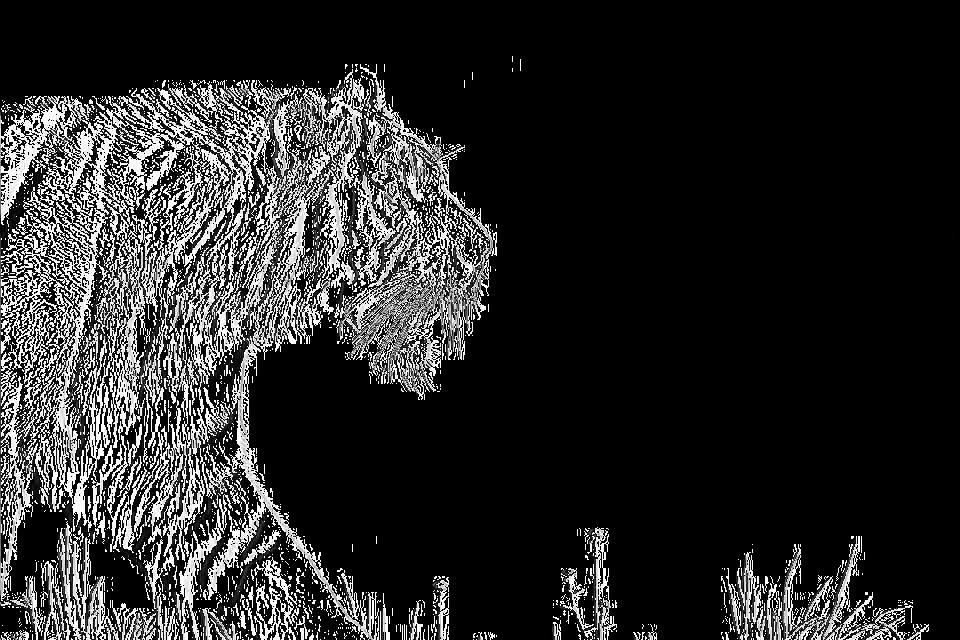
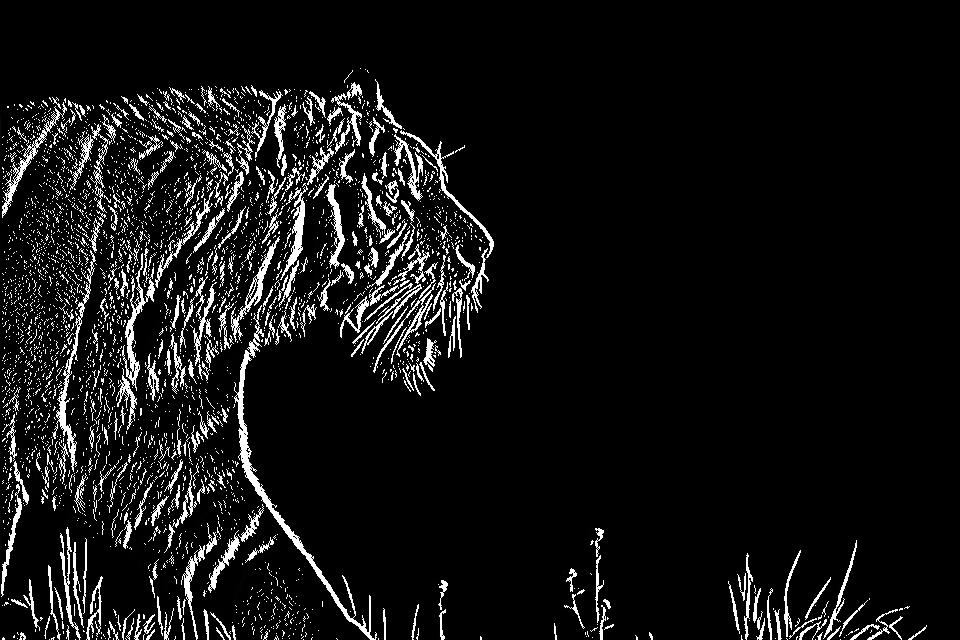
Used blurr to get better edge detection

Changed region(s): [[0.0, 0.0938, 0.5312, 1.0], [0.75, 0.8438, 0.9688, 1.0], [0.5625, 0.8125, 0.6875, 1.0]]

diff --git a/main.py b/main.py
@@ -5,20 +5,49 @@ from filters import get_filter
 import numpy as np
 import os
 
+image_name = "tiger"
+
 def main():
-    image_name = "tiger"
     image_rel_path = ImageHolder(path=f"assets/base/{image_name}.jpeg")
-    save_image(image_rel_path.get_gray_scale(), f"assets/gray/{image_name}_gray.jpeg")
-    filt = get_filter("backward")
-    convolutor = Convolutor(filt, 1)
-    edge = convolutor.convolution(image_rel_path.get_gray_scale())
-    save_image(edge, f"assets/processed/{image_name}_edge.jpeg")
-    print("Edge detection project!")
+    convolutor = Convolutor()
+
+    gray__image = gray_scale_image(image_rel_path)
     
+    blurred_image = blurr_image(gray__image, 1/16, convolutor)
+
+    edged_image = detect_edges(blurred_image, "backward", convolutor)
+    
+    print("Image processing complete.")
+
 def save_image(image, path):
     path = os.path.join(os.path.dirname(__file__), path)
     save_image = Image.fromarray(image)
     save_image.save(path)
+    
+def blurr_image(image, gamma, convolutor=None):
+    filter = get_filter("gaussian_3x3")
+    blurred_image = convolute_image(image, filter, gamma, convolutor)
+    save_image(blurred_image, f"assets/processed/{image_name}_blurred.jpeg")
+    return blurred_image
+
+def gray_scale_image(image_holder):
+    gray_image = image_holder.to_gray_scale()
+    save_image(gray_image, f"assets/gray/{image_name}_gray.jpeg")
+    return gray_image
+
+def detect_edges(image, filter_id, convolutor=None):
+    filter = get_filter(filter_id)
+    edge_image = convolute_image(image, filter, 1, convolutor)
+    save_image(edge_image, f"assets/processed/{image_name}_edge.jpeg")
+    return edge_image
+
+def convolute_image(image, filter, gamma, convolutor=None):
+    if convolutor is None:
+        convolutor = Convolutor(filter, gamma)
+    else:
+        convolutor.set_filter(filter, gamma)
+    convoluted_image = convolutor.convolution(image)
+    return convoluted_image
 
 if __name__ == "__main__":
     main()

diff --git a/convolutor.py b/convolutor.py
@@ -4,19 +4,19 @@ import math
 class Convolutor:
     
     filter_arr = None
-    gamma = -1
-    
-    def __init__(self, filter, gamma):
+    gamma = None
+
+    def __init__(self, filter = None, gamma = None):
         self.filter_arr = filter
         self.gamma = gamma
         pass
     
-    def set_filter(self, filter, gamma):
+    def set_filter(self, filter, gamma = None):
         self.filter_arr = filter
-        self.gamma = gamma
+        self.gamma = gamma if gamma is not None else self.gamma
     
     def convolution(self, image):
-        if self.filter_arr is None or self.gamma == -1:
+        if self.filter_arr is None or self.gamma is None:
             raise ValueError("Filter not set")
         filt = np.flip(self.filter_arr)
         if filt.ndim == 1:

diff --git a/image_holder.py b/image_holder.py
@@ -39,7 +39,7 @@ class ImageHolder:
     def update_image(self):
         self.data.save(self.path)
         
-    def get_gray_scale(self):
+    def to_gray_scale(self):
         raw_data = self.get_data()
         size = (self.get_height(), self.get_width())
         gray_data = np.zeros(size, dtype=np.uint8)
